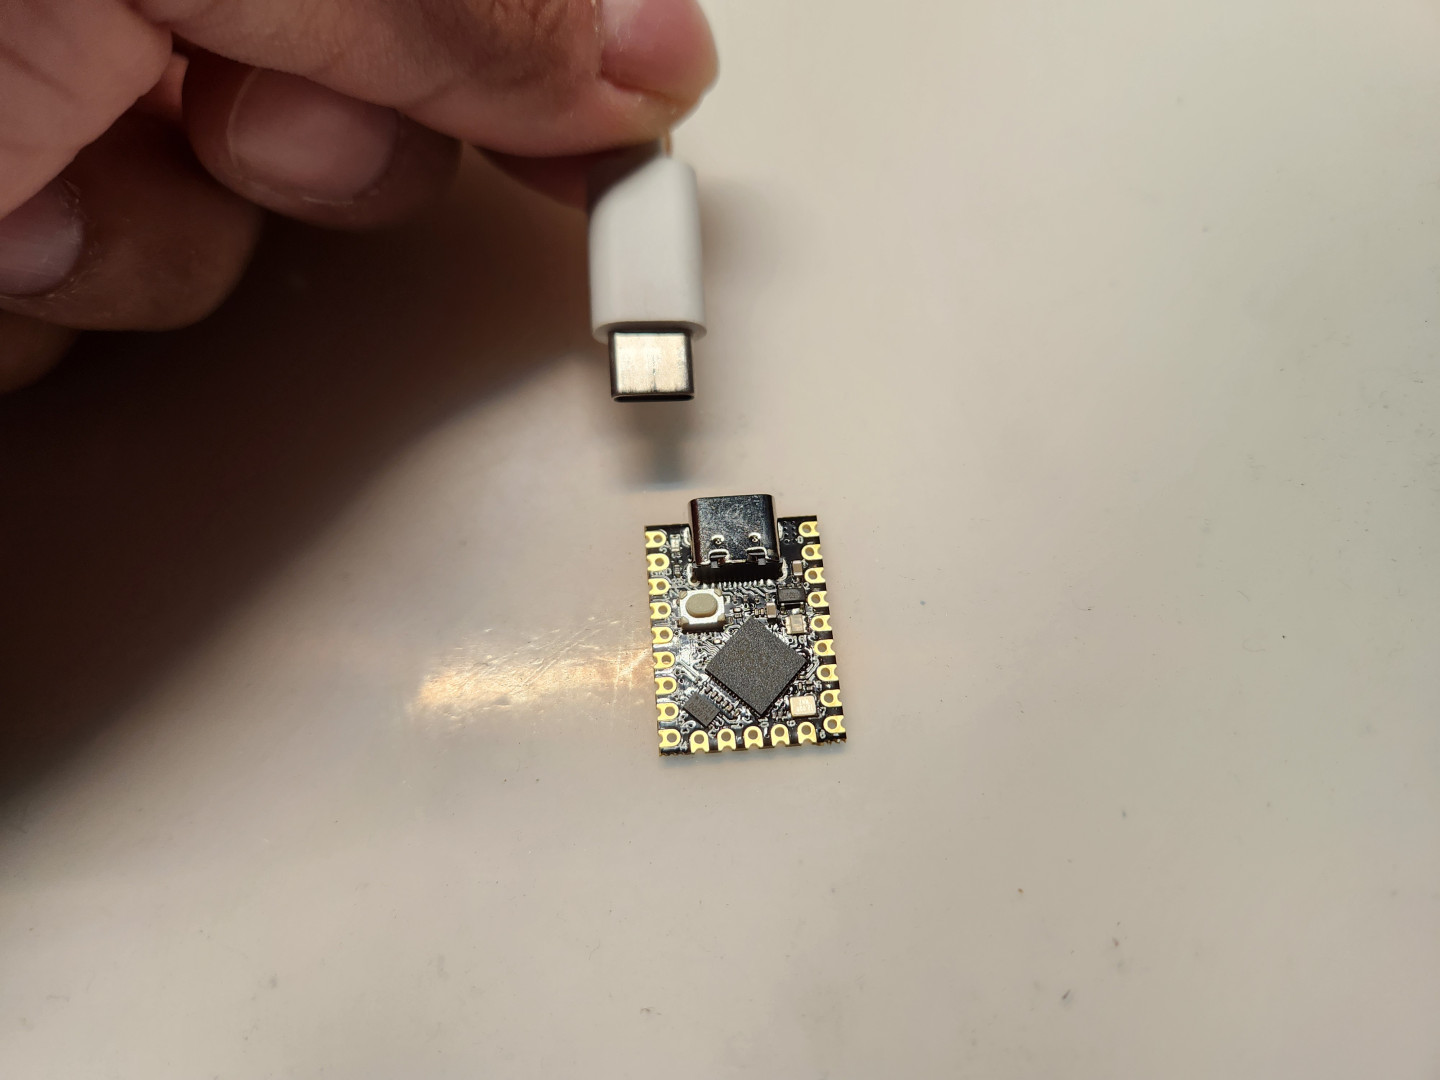
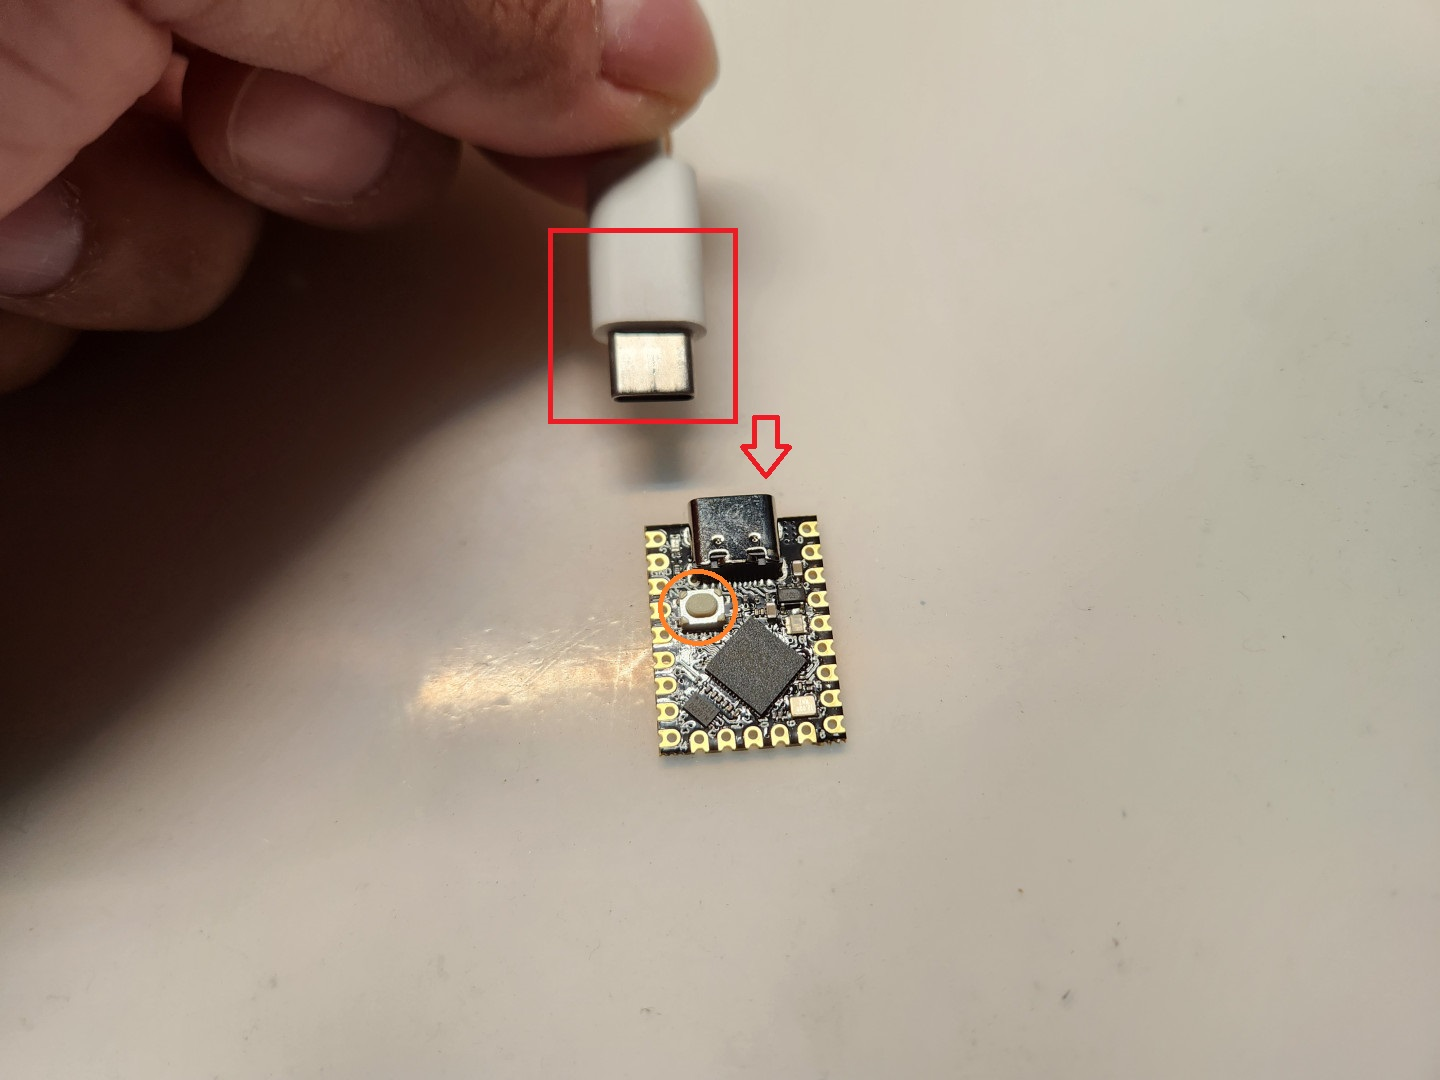
update guide.md

diff --git a/readme.md b/readme.md
@@ -6,7 +6,7 @@
 
 OpeNero65是我設計的第一把`ANSI配列`鍵盤，使用市面上都能輕易買到的RP2040開發板驅動，支援`QMK`/`VIAL`、多配列支持、階梯CapsLock等。本以為標準鍵盤外殼很好設計，後來發現單件CNC的價格過高，才改用堆疊外殼的設計方式，本次成品會採用3mm厚度壓克力製成。
 
-OpeNero65 is the first ANSI keyboard I designed, it is driven by the RP2040 development board which can be easily purchased in the market, and it supports `QMK`/`VIAL`, multi-compatibility support, and ladder CapsLock, etc. Originally, I thought the standard keyboard case is very easy to design, then I found that the price of a single CNC is too high, so I switched to the stacked case design. Originally thought the standard keyboard case is very good design, but later found that the price of a single piece of CNC is too high, and then changed to the stacked case design, the finished product will be made of 3mm thickness acrylic.
+OpeNero65 is the first `ANSI keyboard` I designed, it is driven by the RP2040 development board which can be easily purchased in the market, and it supports `QMK`/`VIAL`, multi-compatibility support, and ladder CapsLock, etc. Originally, I thought the standard keyboard case is very easy to design, then I found that the price of a single CNC is too high, so I switched to the stacked case design. Originally thought the standard keyboard case is very good design, but later found that the price of a single piece of CNC is too high, and then changed to the stacked case design, the finished product will be made of 3mm thickness acrylic.
 
 設計堆疊殼也相當不輕鬆，特別是PCB階段它有一端是向外突起，接著開發板採用的是排針焊接固定，大大增加堆疊外殼的3D設計困難。仰角以堆疊外殼來說仰角有2種設計方式，但因為開發板固定在PCB上會有立體干涉存在，只能採用橫向堆疊的方式設計... 總體來說也經過一段時間折騰才順利完成。
 
@@ -29,7 +29,7 @@ The design of the stacked case is not easy, especially at the PCB stage it has a
 |OpeNero65電路板（`PCB`）|1片|-|
 |堆疊外殼（Stacking Case）|1組|10片堆疊材料|
 |微控制器（`MCU`）|1片|`RP2040Supermini`、`RP2040Zero`|
-|公母圓排針|`9pin`、`5pin`|選配（`Optional`）|
+|公母圓排針（M/F Pin header）|`9pin`、`5pin`|選配（`Optional`）|
 |熱插拔座（Hotswap Sockets）|72個|`MX`規格（for MX switches）|
 |`M2x5mm` 扁頭螺絲（Screws）|30根|-|
 |`M2x4mm` 扁頭螺絲（Screws）|8根|-|
@@ -38,11 +38,11 @@ The design of the stacked case is not easy, especially at the PCB stage it has a
 |`M2x12mm` 雙通銅柱（Spacer）|10根|-|
 |`M2x5mm` 雙通銅柱（Spacer）|11根|-|
 |`M2x3mm` 雙通銅柱（Spacer）|8根|-|
-|`PCB`衛星軸（Stablizers）|1組|`2u`、`6.25u`/`7u`|
+|`PCB`衛星軸（Stablizers）|3+1組|`2u`、`6.25u`/`7u`|
 |衛星軸用潤滑酯|-|`Permatex 22058`/`81150`或`XHT-BDZ`|
 |防滑腳貼（Rubber feets）|5個|高度隨個人而定|
 |外徑`5mm` 內徑`2mm` 橡膠圈（Outer `ø5mm`, inner `ø2mm` O-rings）|15個|選配（`Optional`）|
-|`M2` 防滑墊片（`M2` washers）|10個|選配（`Optional`）|
+|`M2` 防滑墊片（`M2` washers）|5個|選配（`Optional`）|
 
 ### B、使用工具：
 
@@ -86,7 +86,7 @@ The design of the stacked case is not easy, especially at the PCB stage it has a
 - [VIAL](https://get.vial.today/).
 - [KiCAD](https://www.kicad.org/) version `7.0.5.`
 - [JLCPCB](https://jlcpcb.com/).
-- [DeepL](https://www.deepl.com/translator)
+- [DeepL](https://www.deepl.com/translator).
 - [AutoDesk Fusion360](https://www.autodesk.com/products/fusion-360/free-trial).
 - Taiwan [Tatung University](https://www.ttu.edu.tw/) - [Department of Mechanical and Materials Engineering](https://mme.ttu.edu.tw/)
 - And my friend: [YCT](https://github.com/yct38)

diff --git a/guide.md b/guide.md
@@ -1,19 +1,58 @@
 # 組裝說明 Building Guide
 
+- 電路板及定位板。
+- PCB and plate.
+![](pic/001.jpg)
+
 ## 一、韌體燒錄（Firmware）
 
+- 首先將韌體燒錄進MCU中預備，方法如下：
+- First you need to flash firmware into MCU, please follow step below：
+
+> **Note**
+>
+> RP2040 SuperMini/Zero have same `bootloader` way, you need to keep pushing switch on the MCU `before` plug USB-C cable to the PC. After that, you can see a `disk` on your device, then put `.uf2` firmware file into disk.
+
+![](pic/003.jpg)
+![](pic/004.jpg)
+
+## 二、二極體&熱插拔座&排針（Diodes and Hotswap sockets and Pin headers）
+
+- 接著準備好PCB、二極體及熱插拔座，並且依序按照電路板上的方向焊接固定起來。
+- Prepared the PCB, diodes and hotswap sockets, soldering and fixing in the direction of the PCB.
+
+![](pic/diodes.jpg)
+![](pic/005.jpg)
+![](pic/006.jpg)
+
+- 接下來準備排針及MCU，對照好PCB上的腳位，將排針安裝在PCB的背面。
+- Prepare pin headers and MCU, following and installing them in the direction of the PCB on back side.
+![](pic/002.jpg)
+![](pic/RP2040SueprMiniFoot1.png)
+
+- 推薦先安裝母排針，再安裝公排針，再將MCU放上去固定好後再進行焊接。
+- It is recommended to install the female pins first, then the male pins, then put the MCU on it and fix it before soldering.
+![](pic/008.jpg)
+![](pic/009.jpg)
+![](pic/010.jpg)
+![](pic/011.jpg)
+
+- 熱插拔座、二極體、MCU安裝好之後會是這個樣子。
+- IF you finished installing hotswap sockets, diodes and MCU, check picture below, it looks like the picture below.
+![](pic/012.jpg)
+
+## 三、衛星軸&定位板（Stablizers and Plate）
 
 
-## 二、二極體、熱插拔座（Diodes and Hotswap sockets）
 
 
 
-## 三、排針、測試電路板（M/F Pin header and PCB Testing）
 
 
 
-## 四、衛星軸、定位板（Stablizers and Plate）
 
 
 
-## 五、外殼組裝（Install Case）
+
+
+## 四、外殼組裝（Install Case）
